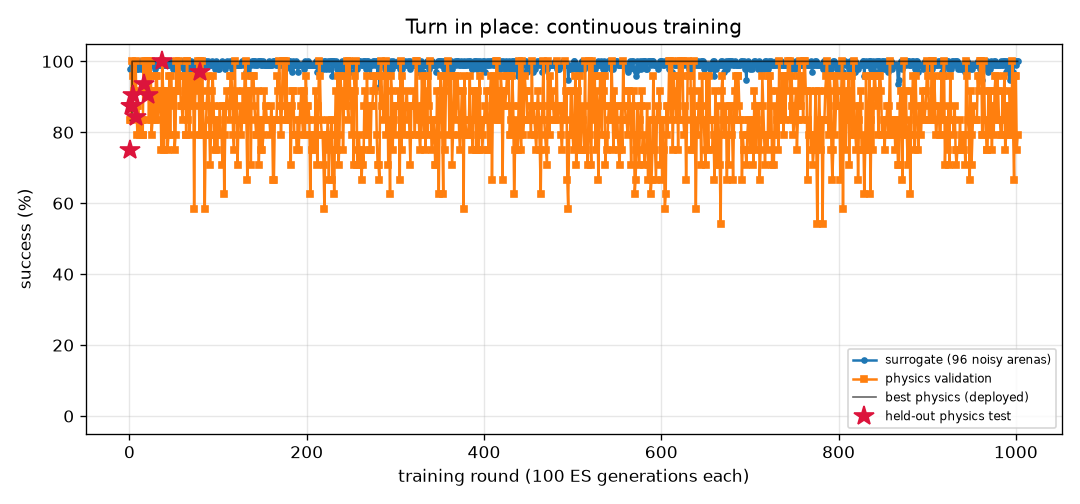
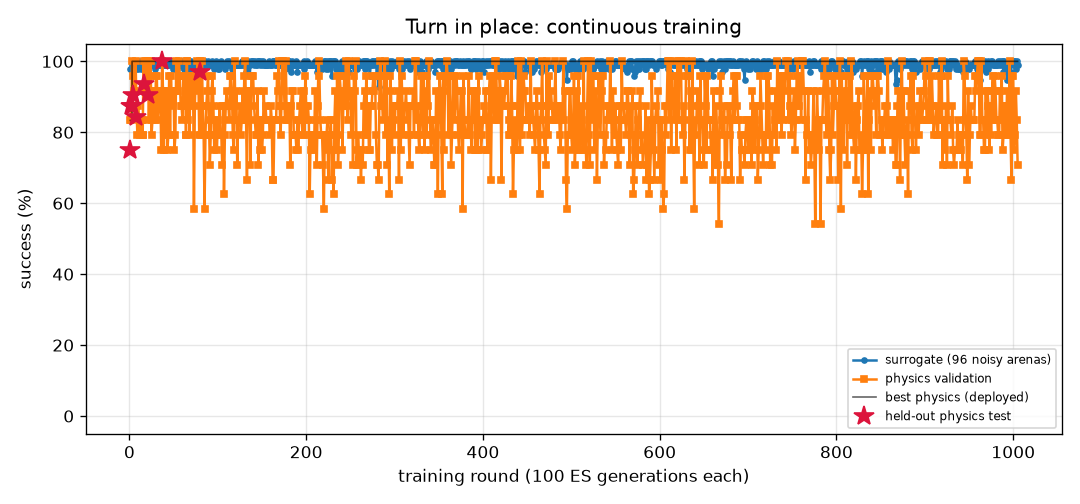
FlyLab: continuous training progress
- walk_forward: optimal, physics val 100% of 24, round 367
- turn: optimal, physics val 100% of 24, round 1005
- goto: optimal, physics val 100% of 24, round 287
- odor_seek: optimal, physics val 100% of 24, round 235
- odor_avoid: optimal, physics val 100% of 24, round 892
- light_seek: optimal, physics val 100% of 24, round 487
- light_avoid: optimal, physics val 100% of 24, round 619

diff --git a/projects/09_flylab/training/odor_avoid/REPORT.md b/projects/09_flylab/training/odor_avoid/REPORT.md
@@ -1,14 +1,14 @@
 # Escape a bad smell (`odor_avoid`) — training report
 
-*Auto-generated by `train_brains.py`, last updated 2026-11-11T23:19:49.*
+*Auto-generated by `train_brains.py`, last updated 2026-11-12T00:04:33.*
 
 ![curve](curve.png)
 
 | | |
 |---|---|
-| rounds | 889 |
-| ES generations | 88900 |
-| physics runs | 18642 |
+| rounds | 892 |
+| ES generations | 89200 |
+| physics runs | 18714 |
 | status | **optimal** |
 | best brain | round 373: physics validation **100%** on 24 arenas, surrogate 97% |
 | held-out physics test | **97%** on 32 unseen arenas (95% CI 84%-99%) (errors: [62.0, 57.4, 62.6, 61.9, 59.0, 61.6, 56.5, 60.7, 31.7, 60.9, 63.1, 57.1, 61.1, 62.1, 61.5, 60.2, 62.2, 55.2, 62.1, 54.2, 61.3, 62.0, 58.0, 61.9, 59.8, 56.5, 56.3, 56.4, 56.3, 57.7, 61.9, 32.4]) |
@@ -17,9 +17,6 @@ Physics error per arena: mm gained away from source (> 6 without first approachi
 
 | round | level | gens | sigma | surrogate | physics val | val errors | test | note |
 |---:|---:|---:|---:|---:|---:|---|---:|---|
-| 850 | 3 | 85000 | 0.026 | 98% | 96% | [62.1, 60.3, 56.4, 59.0, 61.9, 60.1, 60.6, 46.2, 61.2, 20.8, 41.4, 61.9, 54.7, 56.3, 47.3, 60.5, 61.9, 60.7, 55.0, 57.2, 62.2, 62.0, 58.8, 31.5] |  |  |
-| 851 | 3 | 85100 | 0.025 | 94% | 96% | [61.1, 59.9, 55.9, 60.7, 60.3, 60.1, 61.5, 59.6, 60.9, 37.4, 29.6, 61.2, 50.0, 55.2, 13.0, 60.8, 61.1, 59.7, 49.2, 59.1, 61.2, 60.8, 60.6, 60.6] |  |  |
-| 852 | 3 | 85200 | 0.028 | 96% | 92% | [60.0, 52.8, 55.5, 52.8, 56.8, 55.2, 58.6, 57.0, 58.8, 29.6, 3.5, 60.2, 42.6, 51.3, 28.0, 52.0, 59.6, 51.3, 47.7, 52.4, 59.6, 57.4, 53.4, 58.4] |  |  |
 | 853 | 3 | 85300 | 0.026 | 95% | 96% | [59.2, 54.5, 55.0, 56.2, 53.6, 24.9, 59.7, 56.7, 60.0, 9.8, 51.0, 59.5, 47.8, 53.9, 0.7, 36.7, 59.3, 20.2, 48.7, 54.2, 59.7, 41.7, 59.2, 57.6] |  | restart from best |
 | 854 | 3 | 85400 | 0.026 | 96% | 92% | [62.7, 61.0, 56.2, 60.1, 61.9, 42.9, 61.0, 5.1, 61.3, 31.5, 3.5, 61.5, 49.6, 54.4, 36.5, 44.7, 62.2, 36.7, 50.2, 59.1, 62.0, 32.2, 56.5, 57.4] |  |  |
 | 855 | 3 | 85500 | 0.026 | 95% | 96% | [62.7, 59.5, 56.5, 60.1, 60.2, 61.6, 61.6, 35.3, 61.6, 28.1, 29.2, 62.1, 49.1, 54.0, 29.7, 59.8, 61.9, 61.0, 49.7, 57.4, 62.0, 41.0, 59.6, 61.8] |  |  |
@@ -57,3 +54,6 @@ Physics error per arena: mm gained away from source (> 6 without first approachi
 | 887 | 3 | 88700 | 0.029 | 97% | 96% | [63.5, 58.4, 55.9, 58.1, 62.0, 62.0, 61.9, 47.7, 60.9, 55.6, 61.6, 61.8, 52.1, 55.9, 30.3, 60.8, 62.2, 60.8, 55.1, 57.8, 62.1, 45.2, 57.7, 46.2] |  |  |
 | 888 | 3 | 88800 | 0.026 | 97% | 96% | [63.4, 61.3, 57.8, 58.4, 61.3, 62.3, 62.0, 38.8, 60.5, 35.7, 61.5, 61.9, 52.1, 58.6, 45.7, 61.2, 61.8, 61.1, 54.9, 55.8, 61.4, 49.0, 58.4, 49.8] |  |  |
 | 889 | 3 | 88900 | 0.026 | 96% | 100% | [63.5, 61.3, 56.4, 56.6, 62.5, 62.7, 60.9, 56.9, 61.6, 40.7, 61.3, 61.7, 52.4, 57.6, 28.0, 61.6, 62.3, 62.2, 52.0, 58.8, 62.4, 51.5, 59.4, 45.2] |  | restart from best |
+| 890 | 3 | 89000 | 0.026 | 96% | 100% | [63.2, 56.5, 56.4, 61.1, 62.4, 53.2, 60.7, 28.6, 60.9, 34.2, 57.6, 61.9, 50.8, 55.4, 11.7, 62.4, 62.2, 61.6, 54.8, 57.2, 61.9, 45.9, 61.6, 52.8] |  |  |
+| 891 | 3 | 89100 | 0.026 | 93% | 100% | [63.0, 57.9, 56.2, 61.0, 62.5, 62.3, 61.3, 62.2, 61.0, 60.6, 62.1, 62.2, 55.0, 56.7, 51.7, 62.0, 62.7, 61.8, 55.3, 57.3, 62.6, 62.4, 61.4, 62.7] |  |  |
+| 892 | 3 | 89200 | 0.028 | 96% | 96% | [61.9, 60.9, 55.6, 60.9, 61.0, 62.5, 60.7, 61.8, 61.6, 62.3, 62.0, 62.1, 52.3, 55.8, 43.2, 62.3, 61.6, 62.4, 54.7, 59.2, 61.8, 61.8, 61.1, 61.5] |  |  |

diff --git a/projects/09_flylab/training/turn/REPORT.md b/projects/09_flylab/training/turn/REPORT.md
@@ -1,14 +1,14 @@
 # Turn in place (`turn`) — training report
 
-*Auto-generated by `train_brains.py`, last updated 2026-11-11T23:20:23.*
+*Auto-generated by `train_brains.py`, last updated 2026-11-11T23:51:56.*
 
 ![curve](curve.png)
 
 | | |
 |---|---|
-| rounds | 1002 |
-| ES generations | 100200 |
-| physics runs | 24294 |
+| rounds | 1005 |
+| ES generations | 100500 |
+| physics runs | 24366 |
 | status | **optimal** |
 | best brain | round 80: physics validation **100%** on 24 arenas, surrogate 100% |
 | held-out physics test | **97%** on 32 unseen arenas (95% CI 84%-99%) (errors: [1.6, 3.3, 6.3, 3.7, 1.1, 0.4, 2.4, 2.9, 0.1, 2.6, 0.5, 2.7, 1.5, 3.1, 4.5, 0.2, 0.5, 1.1, 2.0, 4.4, 2.8, 3.2, 0.3, 2.2, 0.5, 3.0, 0.3, 5.4, 0.4, 1.0, 4.7, 10.7]) |
@@ -17,9 +17,6 @@ Physics error per arena: deg from target heading (< 20 = success).
 
 | round | level | gens | sigma | surrogate | physics val | val errors | test | note |
 |---:|---:|---:|---:|---:|---:|---|---:|---|
-| 963 | 3 | 96300 | 0.027 | 99% | 79% | [1.8, 5.4, 7.5, 1.1, 1.0, 6.4, 8.1, 8.7, 7.6, 1.9, 6.6, 3.9, 1.5, 0.1, 5.7, 10.7, 4.2, 5.2, 14.5, 6.9, 1.8, 3.0, 8.5, 6.8] |  |  |
-| 964 | 3 | 96400 | 0.025 | 100% | 100% | [3.8, 8.8, 8.4, 5.1, 3.2, 2.9, 1.2, 3.9, 0.9, 4.4, 1.6, 3.0, 5.1, 5.8, 0.5, 4.7, 3.0, 4.1, 4.5, 4.1, 4.6, 1.7, 0.7, 7.5] |  | restart from best |
-| 965 | 3 | 96500 | 0.024 | 99% | 83% | [6.4, 4.8, 5.7, 0.1, 19.2, 17.2, 5.7, 6.2, 7.3, 1.8, 5.3, 2.8, 0.4, 2.3, 4.4, 17.3, 1.5, 5.7, 3.8, 17.2, 103.5, 3.1, 7.2, 7.9] |  |  |
 | 966 | 3 | 96600 | 0.025 | 99% | 83% | [0.2, 0.2, 5.4, 0.5, 2.7, 2.5, 6.5, 9.6, 9.0, 4.2, 5.9, 2.1, 0.9, 0.9, 6.0, 2.3, 2.1, 2.0, 2.4, 4.0, 2.2, 1.5, 7.3, 1.3] |  |  |
 | 967 | 3 | 96700 | 0.025 | 98% | 75% | [5.6, 5.4, 15.8, 0.2, 4.9, 6.0, 9.1, 4.9, 8.1, 2.3, 6.0, 2.5, 0.9, 1.1, 7.3, 4.4, 2.4, 5.8, 5.0, 4.3, 0.9, 1.6, 8.2, 7.3] |  |  |
 | 968 | 3 | 96800 | 0.025 | 100% | 75% | [4.5, 6.8, 5.3, 0.4, 14.2, 3.7, 7.5, 10.1, 7.4, 3.5, 7.2, 3.1, 2.3, 0.7, 6.9, 3.9, 3.2, 4.3, 3.8, 4.3, 2.2, 4.2, 8.2, 6.9] |  | restart from best |
@@ -57,3 +54,6 @@ Physics error per arena: deg from target heading (< 20 = success).
 | 1000 | 3 | 100000 | 0.024 | 99% | 96% | [6.1, 4.4, 2.3, 0.6, 3.2, 0.1, 5.0, 3.6, 4.7, 1.0, 3.8, 0.9, 0.2, 3.7, 4.7, 0.3, 4.0, 1.2, 0.1, 1.2, 3.3, 2.1, 4.9, 6.4] |  | restart from best |
 | 1001 | 3 | 100100 | 0.024 | 100% | 75% | [3.6, 1.8, 1.6, 0.9, 2.0, 3.8, 6.2, 6.3, 5.5, 1.9, 4.1, 0.5, 1.0, 1.3, 3.9, 0.8, 0.4, 2.7, 0.9, 1.3, 2.3, 0.5, 5.8, 6.1] |  |  |
 | 1002 | 3 | 100200 | 0.024 | 100% | 79% | [2.5, 1.7, 1.7, 0.5, 0.5, 3.1, 4.9, 5.8, 7.5, 0.9, 5.0, 1.4, 0.9, 0.6, 4.5, 1.7, 1.4, 2.3, 3.0, 1.9, 2.3, 1.9, 6.9, 1.5] |  |  |
+| 1003 | 3 | 100300 | 0.024 | 98% | 92% | [1.9, 3.6, 1.0, 2.0, 1.0, 0.2, 5.3, 6.4, 6.1, 0.5, 4.8, 1.2, 1.1, 0.8, 3.5, 2.5, 1.0, 0.7, 4.4, 0.9, 1.8, 2.8, 6.9, 4.5] |  |  |
+| 1004 | 3 | 100400 | 0.025 | 100% | 83% | [0.8, 2.1, 0.9, 1.3, 0.3, 1.7, 6.8, 9.3, 4.9, 14.5, 5.2, 1.7, 1.6, 1.4, 6.0, 1.6, 2.3, 3.4, 1.6, 2.0, 2.9, 2.1, 4.8, 7.8] |  | restart from best |
+| 1005 | 3 | 100500 | 0.024 | 99% | 71% | [5.0, 2.5, 2.2, 2.3, 1.8, 0.0, 5.9, 5.3, 7.4, 0.6, 5.9, 1.1, 0.1, 0.0, 5.5, 1.7, 0.7, 1.6, 0.8, 0.5, 2.2, 1.5, 8.0, 6.6] |  |  |

diff --git a/projects/09_flylab/training/light_avoid/REPORT.md b/projects/09_flylab/training/light_avoid/REPORT.md
@@ -1,14 +1,14 @@
 # Hide from light (`light_avoid`) — training report
 
-*Auto-generated by `train_brains.py`, last updated 2026-11-11T20:43:31.*
+*Auto-generated by `train_brains.py`, last updated 2026-11-12T00:12:58.*
 
 ![curve](curve.png)
 
 | | |
 |---|---|
-| rounds | 618 |
-| ES generations | 61800 |
-| physics runs | 15104 |
+| rounds | 619 |
+| ES generations | 61900 |
+| physics runs | 15128 |
 | status | **optimal** |
 | best brain | round 159: physics validation **100%** on 24 arenas, surrogate 100% |
 | held-out physics test | **100%** on 32 unseen arenas (95% CI 89%-100%) (errors: [14.4, 56.1, 58.0, 57.9, 57.5, 14.0, 14.4, 56.6, 56.8, 13.3, 14.1, 56.6, 57.6, 13.1, 57.3, 55.9, 57.2, 55.0, 55.2, 53.9, 55.2, 12.4, 53.8, 53.7, 14.1, 13.7, 55.0, 57.8, 56.2, 13.1, 52.8, 56.5]) |
@@ -17,7 +17,6 @@ Physics error per arena: mm gained away from source (> 6 without first approachi
 
 | round | level | gens | sigma | surrogate | physics val | val errors | test | note |
 |---:|---:|---:|---:|---:|---:|---|---:|---|
-| 579 | 3 | 57900 | 0.024 | 100% | 100% | [48.5, 51.9, 51.1, 50.3, 53.9, 49.5, 49.6, 14.5, 47.2, 13.4, 52.4, 54.0, 14.4, 53.3, 51.4, 50.5, 14.2, 54.0, 51.9, 14.4, 49.2, 52.3, 49.3, 54.0] |  | restart from best |
 | 580 | 3 | 58000 | 0.024 | 99% | 100% | [34.2, 34.6, 35.9, 35.6, 36.4, 33.7, 31.4, 14.5, 35.9, 13.3, 36.9, 36.6, 14.4, 36.1, 33.5, 36.3, 14.2, 35.6, 35.0, 14.4, 36.2, 37.6, 31.8, 36.9] |  |  |
 | 581 | 3 | 58100 | 0.025 | 97% | 100% | [34.9, 40.9, 40.7, 37.3, 43.3, 39.6, 37.4, 14.5, 38.8, 13.4, 42.2, 43.8, 14.4, 42.4, 40.9, 8.8, 14.2, 42.5, 41.7, 14.4, 8.9, 42.5, 36.4, 41.9] |  |  |
 | 582 | 3 | 58200 | 0.026 | 94% | 96% | [6.2, 52.1, 51.8, 7.3, 51.7, 4.3, 50.3, 14.5, 51.0, 13.3, 49.5, 51.5, 14.4, 51.0, 52.0, 9.0, 14.2, 52.0, 52.4, 14.4, 8.7, 51.3, 50.0, 51.0] |  |  |
@@ -57,3 +56,4 @@ Physics error per arena: mm gained away from source (> 6 without first approachi
 | 616 | 3 | 61600 | 0.024 | 100% | 100% | [50.8, 51.5, 51.6, 51.0, 45.9, 50.7, 52.0, 14.5, 45.5, 13.5, 49.0, 46.0, 14.4, 48.3, 51.7, 50.6, 14.2, 48.2, 50.8, 14.4, 50.9, 49.8, 52.0, 44.8] |  |  |
 | 617 | 3 | 61700 | 0.024 | 100% | 100% | [37.5, 36.6, 36.8, 37.8, 34.2, 37.2, 37.2, 14.5, 12.7, 13.4, 37.9, 32.8, 14.4, 37.6, 37.0, 37.7, 14.2, 34.0, 36.4, 14.4, 36.5, 37.7, 36.2, 32.5] |  |  |
 | 618 | 3 | 61800 | 0.024 | 100% | 100% | [35.7, 35.6, 35.6, 36.1, 37.4, 36.4, 30.9, 14.5, 34.5, 13.5, 37.3, 36.9, 14.4, 37.3, 34.7, 36.4, 14.2, 36.8, 36.3, 14.4, 35.8, 36.7, 32.8, 37.2] |  |  |
+| 619 | 3 | 61900 | 0.024 | 100% | 100% | [50.8, 51.1, 51.1, 51.2, 46.4, 49.9, 51.6, 14.5, 41.3, 13.4, 49.2, 46.3, 14.4, 46.5, 51.1, 50.9, 14.2, 47.4, 50.7, 14.4, 50.6, 50.3, 51.8, 44.7] |  | restart from best |

diff --git a/projects/09_flylab/training/TRAINING.md b/projects/09_flylab/training/TRAINING.md
@@ -1,15 +1,15 @@
 # FlyLab brains — continuous training log
 
-*Auto-generated by `train_brains.py`, last updated 2026-11-11T23:20:24.*
+*Auto-generated by `train_brains.py`, last updated 2026-11-12T00:12:58.*
 
 Every skill has its own brain and its own training process: surrogate ES rounds, physics validation in MuJoCo, keep-the-best selection, and a held-out physics test that is never used for selection. See each skill's report for its full round-by-round history. Mastery is progressive: passing a level (100% physics validation, >=95% surrogate) doubles the validation and test arena sets; a brain is **optimal** once it holds up at level 3 (>=95% of 24 validation arenas) AND scores >=90% on the 32 held-out test arenas. Test columns show 95% Wilson confidence intervals.
 
 | skill | rounds | ES generations | physics runs | surrogate | physics val | **physics test** | status |
 |---|---:|---:|---:|---:|---:|---:|---|
 | [Walk forward](walk_forward/REPORT.md) | 367 | 36700 | 8822 | 100% | 100% of 24 | 100% of 32 (CI 89-100%) | **optimal** |
-| [Turn in place](turn/REPORT.md) | 1002 | 100200 | 24294 | 100% | 100% of 24 | 97% of 32 (CI 84-99%) | **optimal** |
+| [Turn in place](turn/REPORT.md) | 1005 | 100500 | 24366 | 100% | 100% of 24 | 97% of 32 (CI 84-99%) | **optimal** |
 | [Go to a location](goto/REPORT.md) | 287 | 28700 | 6838 | 100% | 100% of 24 | 100% of 32 (CI 89-100%) | **optimal** |
 | [Find food by smell](odor_seek/REPORT.md) | 235 | 23500 | 5070 | 100% | 100% of 24 | 100% of 32 (CI 89-100%) | **optimal** |
-| [Escape a bad smell](odor_avoid/REPORT.md) | 889 | 88900 | 18642 | 97% | 100% of 24 | 97% of 32 (CI 84-99%) | **optimal** |
+| [Escape a bad smell](odor_avoid/REPORT.md) | 892 | 89200 | 18714 | 97% | 100% of 24 | 97% of 32 (CI 84-99%) | **optimal** |
 | [Walk toward light](light_seek/REPORT.md) | 487 | 48700 | 8568 | 100% | 100% of 24 | 100% of 32 (CI 89-100%) | **optimal** |
-| [Hide from light](light_avoid/REPORT.md) | 618 | 61800 | 15104 | 100% | 100% of 24 | 100% of 32 (CI 89-100%) | **optimal** |
+| [Hide from light](light_avoid/REPORT.md) | 619 | 61900 | 15128 | 100% | 100% of 24 | 100% of 32 (CI 89-100%) | **optimal** |
